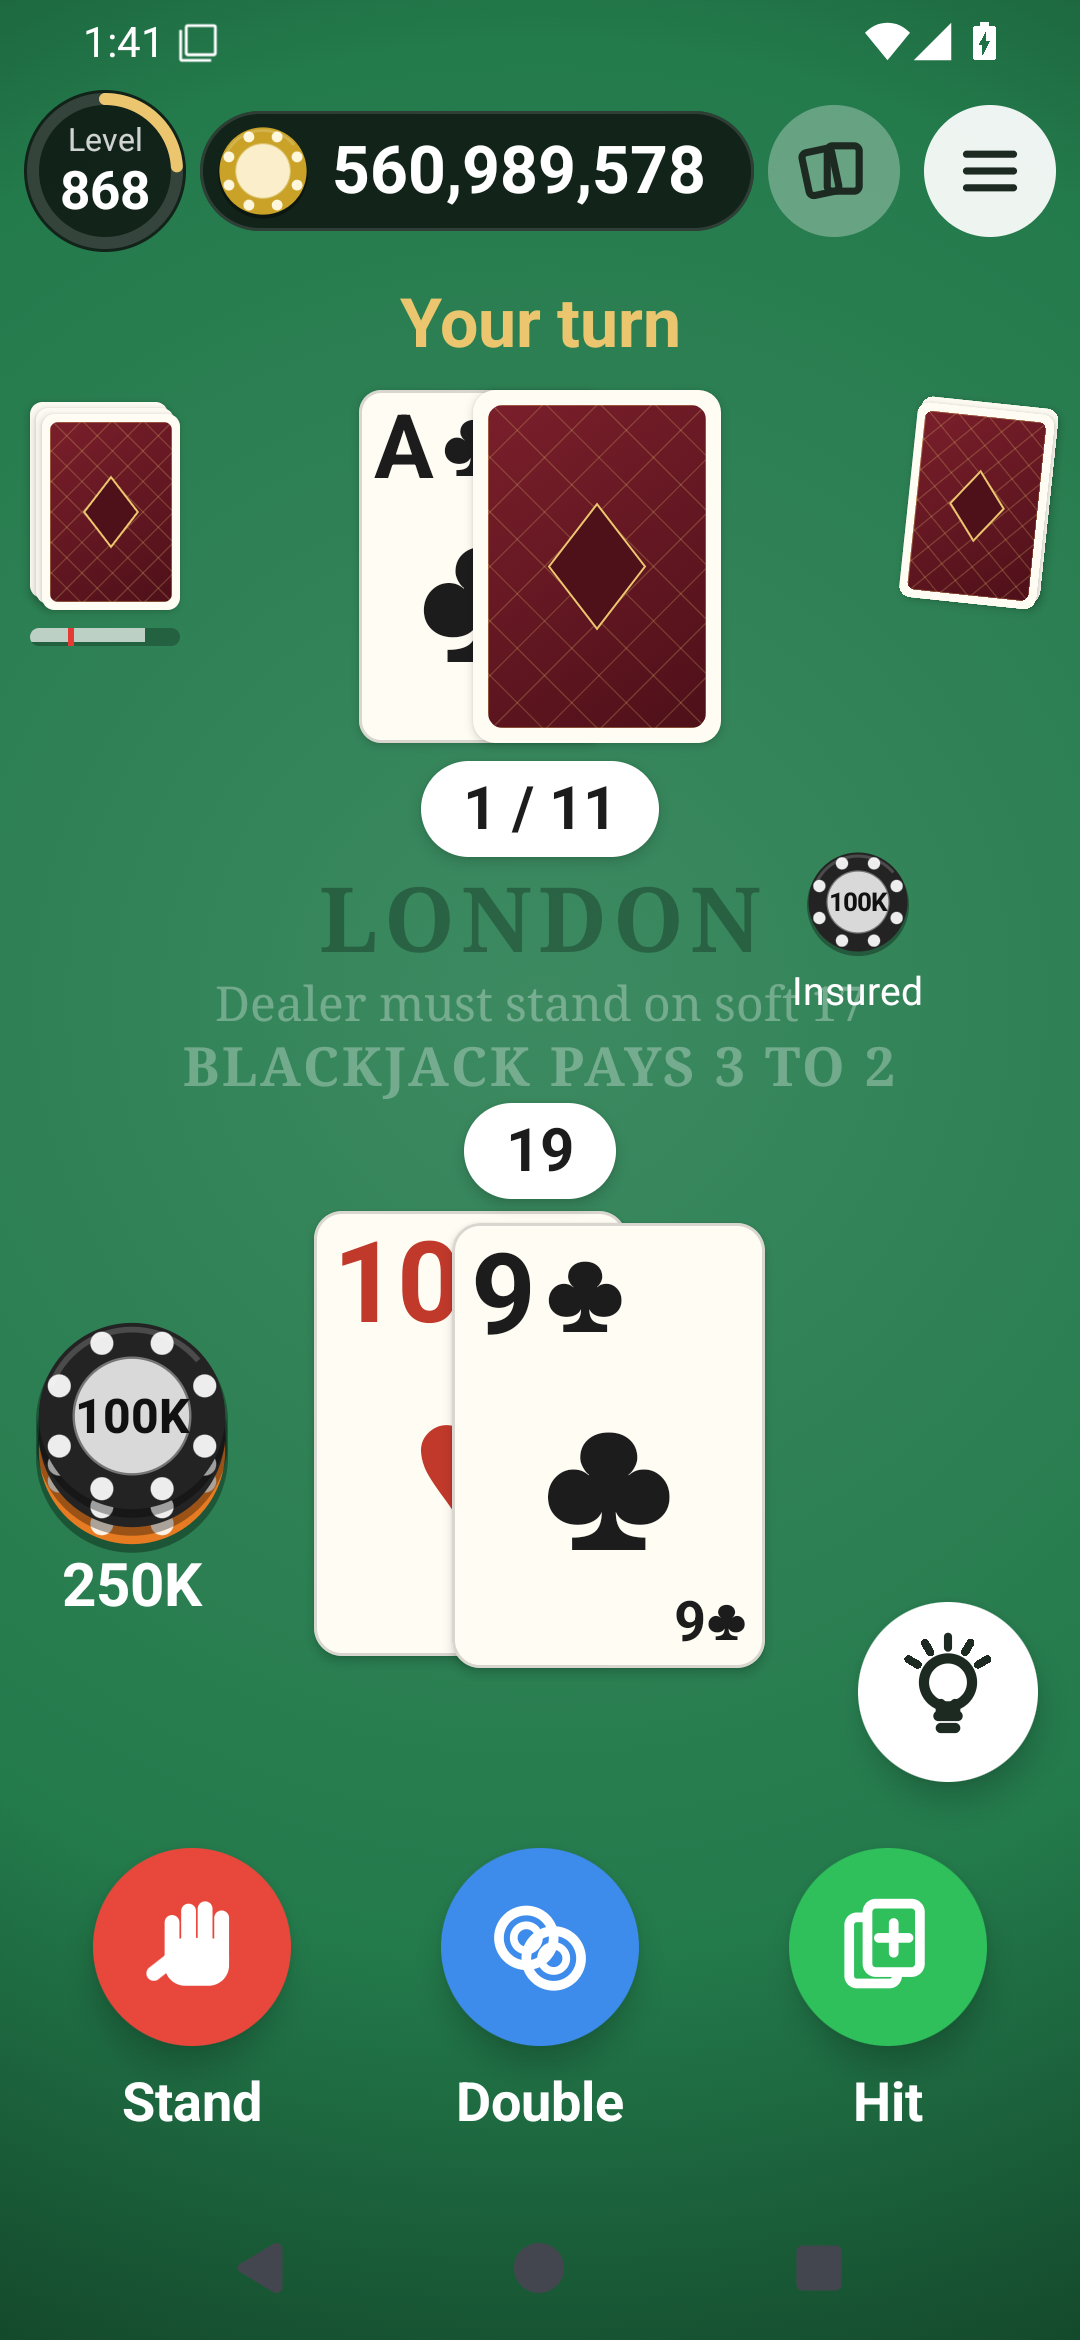
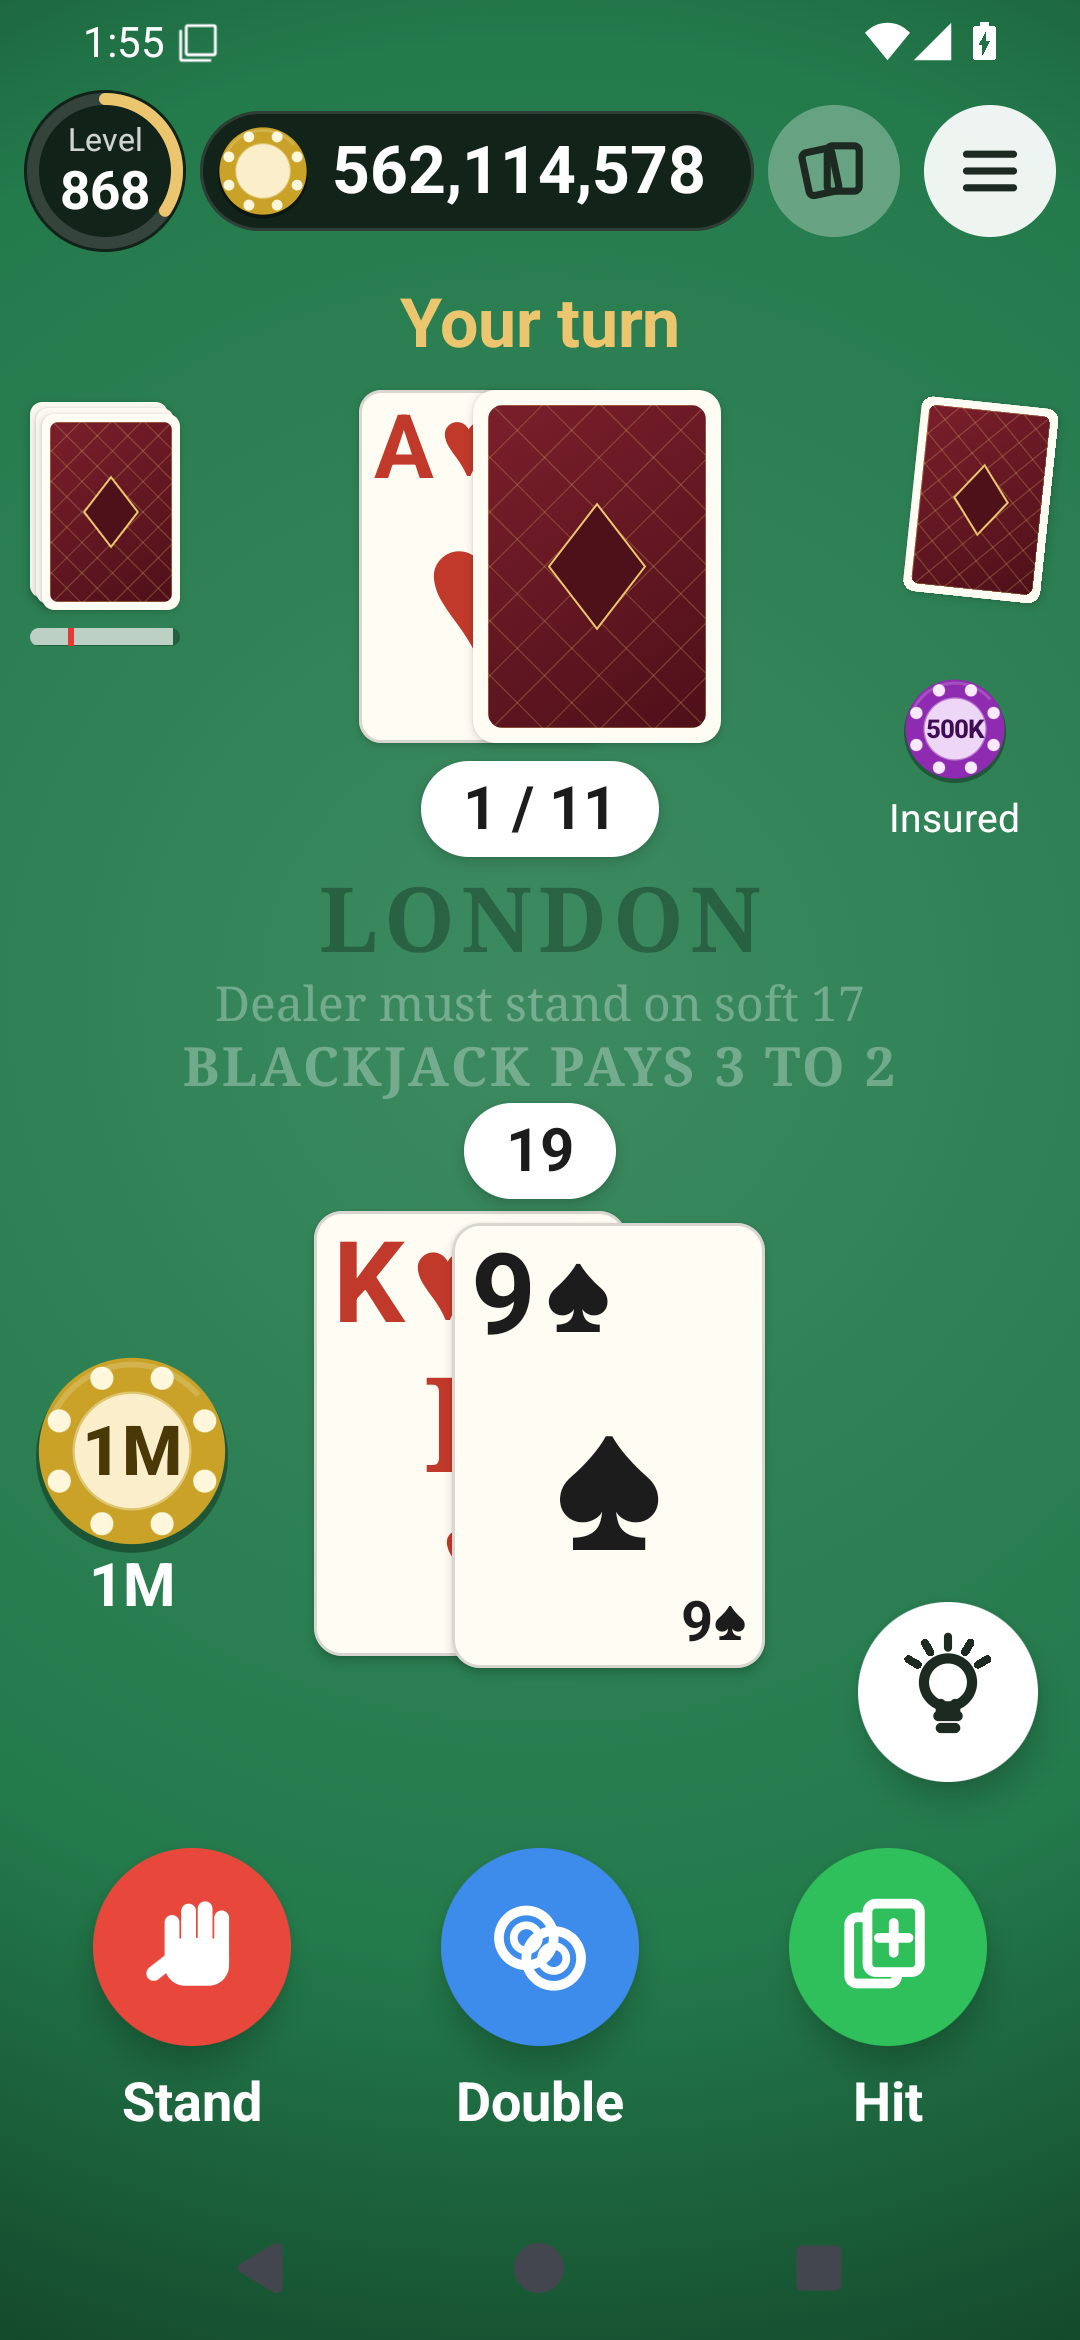
Blackjack: README, final screenshots, tables card and font-scale polish

diff --git a/blackjack/README.md b/blackjack/README.md
@@ -1,1 +1,113 @@
 # Blackjack
+
+An ad-free replacement for the Blackjack app Dad plays (com.blackjack.casino.card.solitaire, 71 h a year,
+17 h in the last two weeks). Single player against the dealer, play money only, with his history carried over:
+balance **559,864,578**, **Level 868**, bet **250K**, table **London**, and his settings (sound off, dealer stands
+on soft 17, hint button on, auto hint off, insurance off, 8 decks).
+
+## Features
+
+- **Table like his app:** dealer cards at the top with the hole card face down. Player cards are large and
+  fanned, with a total bubble (soft hands show both totals, e.g. "7 / 17"). The felt reads
+  "LONDON / Dealer must stand on soft 17 / BLACKJACK PAYS 3 TO 2", and between hands it also lists the other rules.
+- **Round action buttons with words:** Give up (surrender, only when it's switched on), Stand, Split, Double, Hit.
+  Only legal moves are shown.
+- **Hint bulb:** shows the basic-strategy move for the rules in force. **Auto hint** puts a pulsing gold ring
+  around the right button. With split hands the bulb moves into the button row.
+- **Shoe and discard tray:** the shoe gauge has a red cut-card mark at 75% penetration. The discard tray gets
+  thicker as cards are used. At the cut card the tray slides back into the shoe with "Shuffling the shoe…" before
+  the next deal. Changing the number of decks builds a new shoe.
+- **Animation:** cards fly from the shoe one at a time and the hole card flips over. Totals change when a card
+  lands, not when it leaves the shoe. The bet stack slides from the betting spot to beside the cards, and after a
+  split each new hand's stack slides out from the first. At the end of a hand, winnings come out of the dealer's
+  tray, lost chips go to the dealer, and everything left goes to the balance, which counts up or down. Then the
+  table is swept into the discard tray. Tap the felt to skip the result pause.
+- **Betting between hands:** chip rack with his five chips (500, 1K, 2.5K, 5K, 10K) plus 50K, 100K, 500K and 1M,
+  showing only chips the table's maximum allows. Tap to add (chips fly to the bet), Clear, and Deal.
+  **Hold Deal to auto-deal:** the same bet every hand until he taps the gold "Auto deal · Tap to stop" sign.
+  The last bet is kept. A bet can't go over the balance or the table maximum (a short message explains which).
+- **Split hands** side by side, each with its own bet. The active hand has a gold total and the others are dimmed.
+- **Tables:** a carousel of 6 cities with the same rules, different felts and higher stakes:
+  London 5–1M, Paris 1K–2M, Monte Carlo 10K–3M, Macau 25K–5M, Las Vegas 50K–7.5M, Dubai 100K–10M.
+  (His 250K bet needs a 1M maximum, so London's maximum is 1M.)
+- **No shop, no green "+" button.** If he can't cover the smallest chip, an "Out of chips" panel gives him 10M
+  free chips.
+- **Level badge:** a ring around the badge shows XP progress (see "Levels" below).
+- **Settings** (defaults are his): sound effects, hint button, auto hint, deal speed (Relaxed / Normal / Quick).
+  Table rules: presets (Your usual / Atlantic City / Downtown Vegas), decks 2/4/6/8, dealer hits soft 17,
+  insurance, surrender, double on any two or 9–11 only, double after split, split up to 2/3/4 hands.
+  Rule changes start with the next hand.
+- **Stats:** win-rate ring, hands played, biggest win, current balance and level, a balance-over-time line chart
+  (last 200 hands; drag or tap for a hand's value), won / lost / pushed, blackjacks, doubles won (of doubles),
+  splits, biggest bet, best balance, current streak (wins or losses), best streak, and the 15 most recent hands.
+  Reset needs two taps and keeps chips and level.
+- **Saves after every action** and resumes exactly, mid-hand, even after Android kills the app. A relaunch goes
+  back to the table if he was there.
+- Synthesized sounds (card, chip, win, lose, shuffle); off by default. "How to play" screen.
+
+## Rules and payouts
+
+US rules, set up in `core/Rules.kt`:
+
+- 2/4/6/8 decks (default 8). Fair Fisher–Yates shuffle (`kotlin.random`, seeded from `SecureRandom` per deal).
+  Reshuffle once 75% of the shoe has been dealt.
+- The dealer peeks for blackjack with an ace or ten up. If the dealer has blackjack, the hand ends before he
+  decides anything (so doubles and splits can't be lost to it).
+- Blackjack pays 3:2, rounded down to whole chips. Blackjack against dealer blackjack pushes.
+- Dealer stands on soft 17 by default (H17 option).
+- Double on any two cards (option: hard 9–11 only); exactly one card.
+- Double after split allowed (option). Split any two ten-value cards. Split up to 3 times (4 hands; option 2 or 3).
+  Split aces get one card each and can't be hit or resplit. 21 after a split pays 1:1.
+- Insurance (off by default): half the bet, pays 2:1. Insurance with a blackjack works out to even money.
+- Late surrender (off by default): first two cards, one hand only, after the dealer peeks; half the bet back.
+
+### Basic strategy (hint)
+
+`core/Strategy.kt` works out the expected value of every legal move for the rules in force. It recurses exactly
+over the next cards, using odds from the shoe minus the dealer's up card and the hand's first two cards. Dealer
+outcomes are conditioned on no dealer blackjack when an ace or ten shows. Splits are valued as two one-card hands,
+with DAS and the split-aces rule taken into account. Insurance is never recommended.
+
+`StrategyTest` checks the computed charts against the published 4–8-deck charts for S17/DAS, H17/DAS, no-DAS,
+late surrender (S17 and H17) and double-9–11-only. All hard, soft and pair rows match. Two-deck charts match on
+the key rows, and a few small-shoe borderline plays (e.g. 11 against an ace) differ.
+
+### Levels
+
+XP per hand: 10, plus 5 for a winning hand, plus 10 more for a blackjack.
+XP needed to go from level L to L+1: **50 + L** (918 XP at his level 868, about 75 hands).
+That is roughly one level per evening at his pace, so the badge keeps moving without inflating.
+
+## Verification
+
+- **Core tests: 54, all passing** (`./gradlew :blackjack:core:test`):
+  - `GameTest` (42): payouts for every outcome (blackjack 3:2 and rounding, push, win, lose, bust, dealer bust,
+    double win/lose, split with DAS, split aces, 21 after split, split hands settled separately, all split hands
+    bust, insurance won/lost/even money/declined, surrender and when it's allowed); peek with ace or ten up; no
+    peek with other up cards; dealer play (S17, H17, hard 17, soft-to-hard, visible steps); limits (no double or
+    split without chips, max hands, no double after a hit, DAS off, 9–11 rule); shoe (reshuffle at the cut card,
+    deck-count change, shuffle is a permutation, ace-of-spades position uniform over 52,000 shuffles,
+    conservation); exact mid-hand save/resume through JSON.
+  - `StrategyTest` (8): the computed charts against the published charts (above), plus three-card hands.
+  - `Simulation` (4):
+    - **Fuzzer:** 60,000 rounds across 40 random rule sets with random legal moves. Cards are conserved every
+      step, chips are only moved (never created) mid-round, settlement matches the summary, payout bounds hold,
+      and every round ends.
+    - **House edge**, flat-bet basic strategy, 8 decks S17 DAS (published ≈0.46%):
+      **0.536% over 1M hands** (test bound 0.15–0.75%) and **0.432% over 10M hands** (bound 0.35–0.60%).
+    - **Same cards, different rules (5M hands):** S17 0.430%, H17 0.667%, no DAS 0.620%.
+- **Release build** (R8 + shrinkResources) installed on the `dad-blackjack` emulator (1080x2340 @ 480 dpi =
+  360 x 780 dp, 3-button nav). Every screen was screenshotted into `shots/` and checked for overlap, wrapping,
+  clipping and off-centre glyphs: home, betting, dealing, your turn, hint, result, pair, three split hands with
+  auto-highlighted hint, split result, insurance prompt, insured, surrender option, auto-deal, shuffling,
+  out of chips, tables (London, Paris), settings, stats, help.
+- **Animations** checked from `screenrecord` contact sheets: deal path from the shoe, flips, totals appearing
+  when cards land, chips to the dealer and the balance, the sweep to the discard tray, and split stacks.
+- **Kill and relaunch (release build):** force-stopped mid-hand and relaunched. The app came straight back to the
+  table in the same state; a pixel diff against the screenshot before the kill differed only in the pulsing "Your turn".
+- **System font scale 1.3:** home, stats, settings, tables, help and the table checked. Fixed the level badge (now
+  sized in dp), the chart caption overlapping the chart, the stats tile label wrap, truncated recent-hand lines,
+  and the tables card. The fixed-layout table limits font growth to 1.1x so text can't collide.
+
+Debug builds accept `adb shell am start -n dadgames.blackjack/.MainActivity --es stack 8,6,8,10` (card values
+dealt next) and `--el balance N`, for screenshots. Release builds ignore them.
